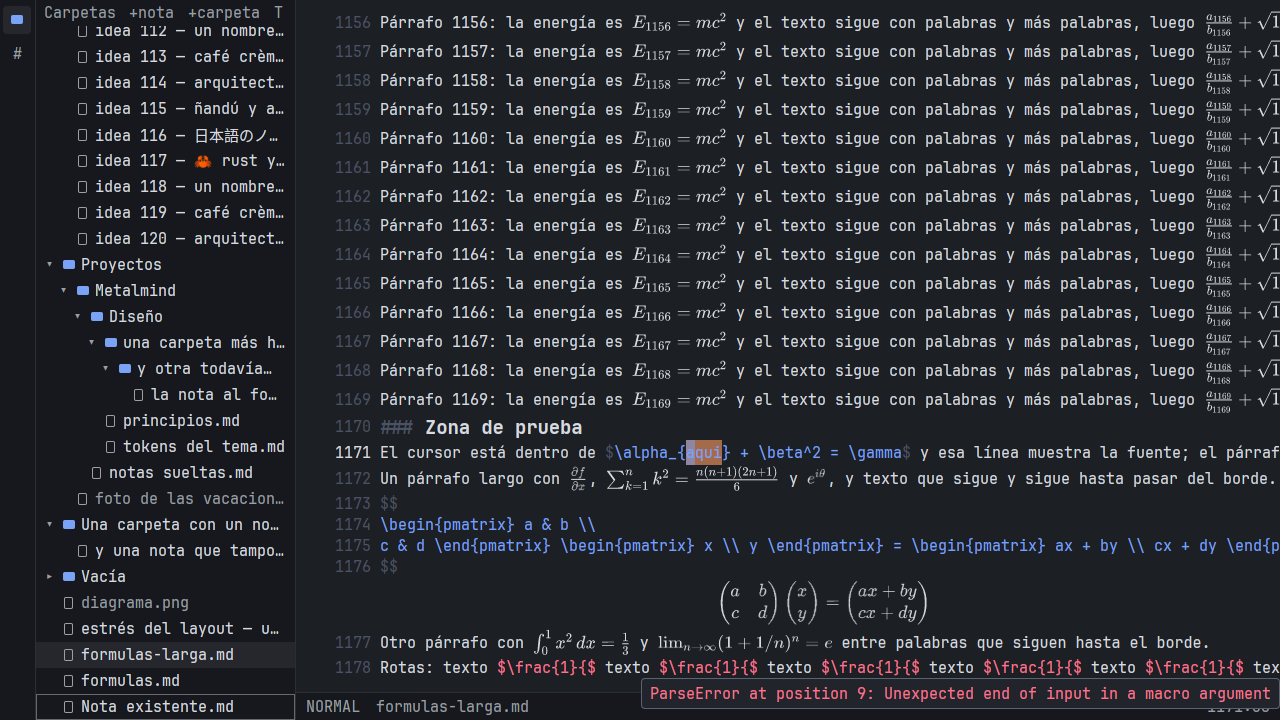
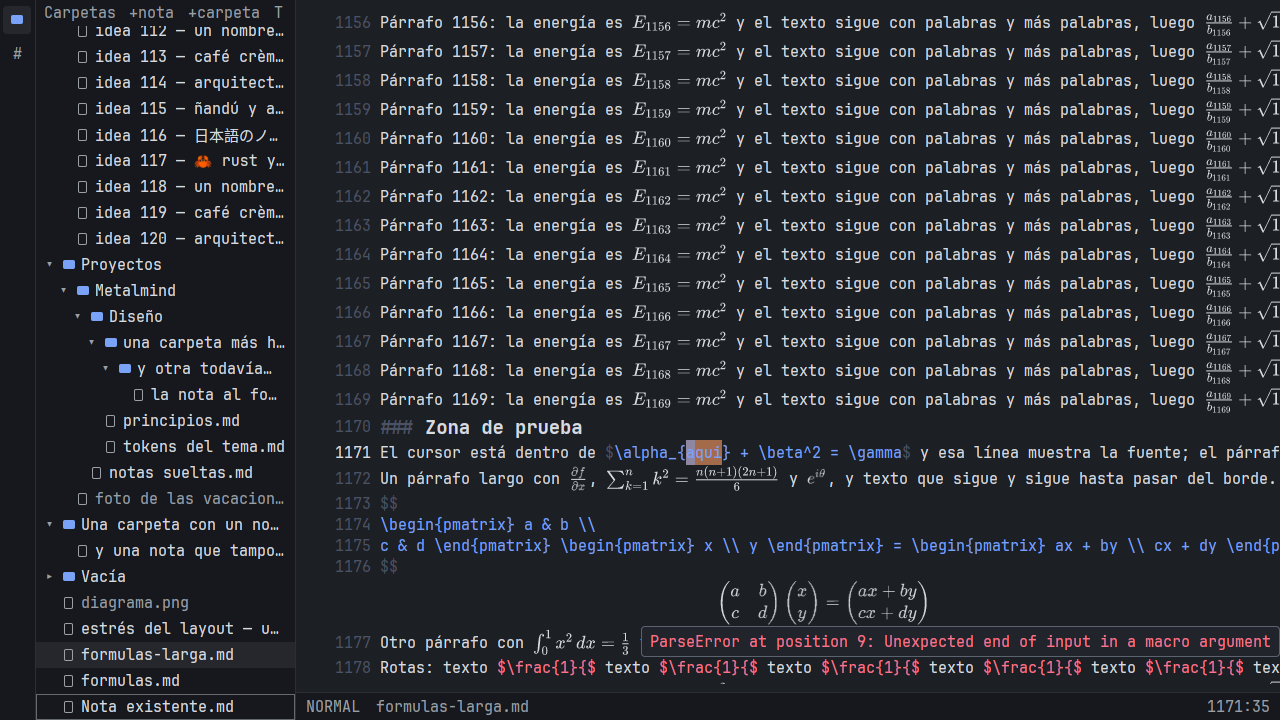
fix(ui): el tooltip de una fórmula rota, dentro del editor, y comprobado en las capturas
Lo que pidió la revisión de las capturas:

- El tooltip del error usa el mismo camino que el de las marks: se mide,
  va debajo de la fórmula o arriba si abajo no cabe en el área del
  editor, y ya no tapa la barra de estado. Se ancla al principio de la
  fórmula y no se mueve con el ratón.
- En scripts/capturas.sh, el ratón va sobre la última fórmula rota que
  se ve entera (la de más a la derecha puede estar cortada por el
  borde), y la captura espera a ver el tooltip y falla si no sale.
- Capturas rehechas sobre este commit: las 68 que ya había dan 0
  píxeles de diferencia.

Changed region(s): [[0.5, 0.9472, 1.0, 1.0], [0.5, 0.8861, 1.0, 0.9167]]

diff --git a/crates/metalmind/tests/capturas.rs b/crates/metalmind/tests/capturas.rs
@@ -207,10 +207,17 @@ fn capturas(#[case] theme: &str, #[case] width: u16, #[case] height: u16) {
                     window.type_keys(&format!(":{}<CR>zb?aqui<CR>", vault::FORMULAS_BROKEN));
                 }
                 Step::HoverBrokenFormula => {
-                    // Sin mover `seen`: si el ratón no muestra nada, la
-                    // captura no espera un frame que no va a llegar.
-                    settle(&window, &frames, seen);
-                    hover_broken_formula(&window, theme, rest);
+                    let still = settle(&window, &frames, seen);
+                    if hover_broken_formula(&window, &still, theme, rest) {
+                        seen = frame_count(&frames);
+                        wait::until("el tooltip de la fórmula rota", TIMEOUT, || {
+                            if window.pixels().2 == still.rgb {
+                                Err("sin tooltip".to_owned())
+                            } else {
+                                Ok(())
+                            }
+                        });
+                    }
                 }
             }
         }
@@ -276,10 +283,15 @@ fn gutter_mark_color(theme: &str) -> [u8; 3] {
     [red, green, blue]
 }
 
-/// El ratón sobre el borde derecho de lo último que se ve pintado en el
-/// color de error del tema: la última fórmula rota visible. Primero lo
-/// aparta, porque sin movimiento la app no se entera.
-fn hover_broken_formula(window: &Window<'_>, theme: &str, rest: (i16, i16)) {
+/// Distancia en píxeles entre dos tramos del color de error que ya no son
+/// la misma fórmula rota: entre una y otra va la palabra `texto`.
+const FORMULA_GAP: usize = 24;
+
+/// Pone el ratón sobre la última fórmula rota que se ve entera en `image`
+/// (la de más a la derecha puede estar cortada por el borde, y una cortada
+/// no dice nada). Devuelve si había alguna: en las capturas de antes, sin
+/// fórmulas compuestas, no hay nada que señalar.
+fn hover_broken_formula(window: &Window<'_>, image: &Image, theme: &str, rest: (i16, i16)) -> bool {
     let error = Themes::builtin()
         .load(&format!("metalmind-{theme}"))
         .unwrap()
@@ -288,23 +300,43 @@ fn hover_broken_formula(window: &Window<'_>, theme: &str, rest: (i16, i16)) {
         .error
         .rgb;
     let [_, red, green, blue] = error.to_be_bytes();
-    let (width, _, rgb) = window.pixels();
-    let mut found: Option<(usize, usize)> = None;
-    for (index, pixel) in rgb.as_chunks::<3>().0.iter().enumerate() {
-        if *pixel == [red, green, blue] {
-            let (x, y) = (index % usize::from(width), index / usize::from(width));
-            if found.is_none_or(|(right, _)| x > right) {
-                found = Some((x, y));
-            }
+    let width = usize::from(image.width);
+    let pixels: Vec<(usize, usize)> = image
+        .rgb
+        .as_chunks::<3>()
+        .0
+        .iter()
+        .enumerate()
+        .filter(|(_, pixel)| **pixel == [red, green, blue])
+        .map(|(index, _)| (index % width, index / width))
+        .collect();
+    let Some(&(_, lowest)) = pixels.iter().max_by_key(|(_, y)| *y) else {
+        return false;
+    };
+    // La línea de las fórmulas rotas, de izquierda a derecha.
+    let mut columns: Vec<usize> = pixels
+        .iter()
+        .filter(|(_, y)| lowest - y < FORMULA_GAP)
+        .map(|(x, _)| *x)
+        .collect();
+    columns.sort_unstable();
+    columns.dedup();
+    let mut formulas: Vec<(usize, usize)> = Vec::new();
+    for x in columns {
+        match formulas.last_mut() {
+            Some((_, right)) if x - *right < FORMULA_GAP => *right = x,
+            _ => formulas.push((x, x)),
         }
     }
-    // Sin fórmulas compuestas (las capturas de antes) no hay nada que señalar.
-    let Some((x, y)) = found else {
-        return;
-    };
+    let &(left, right) = formulas
+        .iter()
+        .rev()
+        .find(|(_, right)| right + FORMULA_GAP < width)
+        .expect("una fórmula rota que se vea entera");
     window.move_pointer(rest.0, rest.1);
     let at = |value: usize| i16::try_from(value).unwrap();
-    window.move_pointer(at(x) - 4, at(y));
+    window.move_pointer(at(usize::midpoint(left, right)), at(lowest) - 4);
+    true
 }
 
 fn out_dir() -> PathBuf {

diff --git a/crates/metalmind-ui/src/editor/formula_tooltip.rs b/crates/metalmind-ui/src/editor/formula_tooltip.rs
@@ -1,48 +1,59 @@
 //! El mensaje de RaTeX sobre una fórmula que no compone, al pasar el ratón,
-//! como en Obsidian: un tooltip como los demás (`crate::tooltip`), con el
-//! texto en el color de error.
+//! como en Obsidian: un tooltip como el de las marks, con el texto en el
+//! color de error, debajo de la fórmula o arriba si abajo no cabe en el
+//! editor.
+
+use std::rc::Rc;
 
 use gpui_kit::{
-    AnyElement, IntoElement as _, ParentElement as _, Pixels, Point, SharedString, Styled as _,
-    anchored, deferred, div, point, relative,
+    AnyTooltip, App, AvailableSpace, Bounds, IntoElement as _, Pixels, SharedString, Window, point,
 };
 
+use super::gutter::{Row, tooltip_origin};
 use super::layout::FormulaError;
 use crate::theme::Theme;
+use crate::tooltip::Tooltip;
 
 #[derive(Clone, Debug, PartialEq)]
 pub struct Hover {
     message: SharedString,
-    /// Debajo de la fórmula, donde no tapa lo que se está leyendo.
-    position: Point<Pixels>,
+    /// La fila de la fórmula, desde su principio: el tooltip no la tapa y
+    /// no se mueve con el ratón.
+    row: Row,
 }
 
 impl Hover {
-    pub fn new(error: &FormulaError, mouse: Point<Pixels>) -> Self {
+    pub fn new(error: &FormulaError) -> Self {
         Self {
             message: error.message.clone(),
-            position: point(mouse.x, error.bounds.bottom()),
+            row: Row {
+                top: error.bounds.top(),
+                bottom: error.bounds.bottom(),
+                text_left: error.bounds.left(),
+            },
         }
     }
 }
 
-pub fn tooltip(hover: &Hover, theme: &Theme) -> AnyElement {
-    deferred(
-        anchored().position(hover.position).snap_to_window().child(
-            div()
-                .font_family(theme.font_family.clone())
-                .text_size(theme.ui_font_size)
-                .line_height(relative(theme.ui_line_height))
-                .px(theme.tooltip_padding_x)
-                .py(theme.tooltip_padding_y)
-                .bg(theme.menu_background)
-                .border(theme.border_width)
-                .border_color(theme.menu_border)
-                .rounded(theme.radius_md)
-                .text_color(theme.error)
-                .child(hover.message.clone()),
-        ),
-    )
-    .with_priority(1)
-    .into_any_element()
+/// Muestra el tooltip de `hover` dentro de `clip`, el área del editor: no
+/// tapa la barra de estado ni sale de la ventana.
+pub fn show(hover: &Hover, clip: Bounds<Pixels>, theme: &Theme, window: &mut Window, cx: &mut App) {
+    let view = Tooltip::error_view(hover.message.clone(), cx);
+    let measured =
+        view.clone()
+            .into_any_element()
+            .layout_as_root(AvailableSpace::min_size(), window, cx);
+    let origin = tooltip_origin(
+        hover.row,
+        measured,
+        clip.bottom(),
+        window.viewport_size().width,
+    );
+    // GPUI corre el tooltip un píxel del ancla, el grosor del borde.
+    let gap = theme.border_width;
+    window.set_tooltip(AnyTooltip {
+        view,
+        mouse_position: origin - point(gap, gap),
+        check_visible_and_update: Rc::new(|_, _, _| true),
+    });
 }

diff --git a/crates/metalmind-ui/src/editor/element.rs b/crates/metalmind-ui/src/editor/element.rs
@@ -13,6 +13,7 @@ use metalmind_vim::{FormulaRows, Mode, Rows};
 
 use super::Editor;
 use super::cursor::{Preedit, cursor_quad, em_width, preedit};
+use super::formula_tooltip;
 use super::gutter::{Gutter, PaintedGutter};
 use super::highlight::{Cells, search_quads, selection_quads};
 use super::layout::{FrameLayout, LaidLine, Viewport};
@@ -30,6 +31,26 @@ pub struct EditorElement {
 }
 
 impl EditorElement {
+    /// El tooltip de la mark o de la fórmula rota bajo el ratón, dentro del
+    /// área del editor.
+    fn show_tooltips(
+        &self,
+        gutter: &Gutter,
+        layout: &FrameLayout,
+        clip: Bounds<Pixels>,
+        window: &mut Window,
+        cx: &mut App,
+    ) {
+        let editor = self.editor.read(cx);
+        let (mark, formula) = (editor.shown_mark_tooltip(), editor.formula_error.clone());
+        if let Some(line) = mark {
+            gutter.mark_tooltip(line, layout, clip, &self.theme, window, cx);
+        }
+        if let Some(hover) = formula {
+            formula_tooltip::show(&hover, clip, &self.theme, window, cx);
+        }
+    }
+
     pub fn new(editor: Entity<Editor>, theme: Theme) -> Self {
         Self { editor, theme }
     }
@@ -207,9 +228,7 @@ impl gpui_kit::Element for EditorElement {
             .with_content_mask(Some(ContentMask { bounds: clip }), |window| {
                 gutter.mark_zones(&layout, &self.editor, window, cx)
             });
-        if let Some(line) = self.editor.read(cx).shown_mark_tooltip() {
-            gutter.mark_tooltip(line, &layout, clip, &self.theme, window, cx);
-        }
+        self.show_tooltips(&gutter, &layout, clip, window, cx);
         Prepainted {
             layout,
             clip,

diff --git a/crates/metalmind-ui/src/tooltip.rs b/crates/metalmind-ui/src/tooltip.rs
@@ -9,12 +9,19 @@ use crate::theme::Theme;
 
 pub struct Tooltip {
     text: SharedString,
+    /// Un error: el texto va en `ui.error`.
+    error: bool,
 }
 
 impl Tooltip {
     /// Para `tooltip` de GPUI, que pide la vista cada vez que se muestra.
     pub fn view(text: SharedString, cx: &mut App) -> AnyView {
-        cx.new(|_| Self { text }).into()
+        cx.new(|_| Self { text, error: false }).into()
+    }
+
+    /// Como [`Tooltip::view`], con el texto en el color de error.
+    pub fn error_view(text: SharedString, cx: &mut App) -> AnyView {
+        cx.new(|_| Self { text, error: true }).into()
     }
 }
 
@@ -32,7 +39,11 @@ impl Render for Tooltip {
             .border(theme.border_width)
             .border_color(theme.menu_border)
             .rounded(theme.radius_md)
-            .text_color(theme.foreground)
+            .text_color(if self.error {
+                theme.error
+            } else {
+                theme.foreground
+            })
             .child(self.text.clone())
     }
 }

diff --git a/crates/metalmind-ui/src/editor/mod.rs b/crates/metalmind-ui/src/editor/mod.rs
@@ -303,10 +303,5 @@ impl Render for Editor {
                     .child(EditorElement::new(cx.entity(), theme.clone())),
             )
             .children(status)
-            .children(
-                self.formula_error
-                    .as_ref()
-                    .map(|hover| formula_tooltip::tooltip(hover, &theme)),
-            )
     }
 }

diff --git a/crates/metalmind-ui/src/editor/mouse.rs b/crates/metalmind-ui/src/editor/mouse.rs
@@ -140,7 +140,7 @@ impl Editor {
             .layout
             .as_ref()
             .and_then(|layout| layout.error_at(position))
-            .map(|error| Hover::new(error, position));
+            .map(Hover::new);
         if hover != self.formula_error {
             self.formula_error = hover;
             cx.notify();

diff --git a/crates/metalmind-ui/src/editor/gutter.rs b/crates/metalmind-ui/src/editor/gutter.rs
@@ -221,7 +221,7 @@ fn shape_mark(
 
 /// La fila de una línea con marks: dónde empieza y termina, y dónde empieza
 /// su texto.
-#[derive(Clone, Copy, Debug)]
+#[derive(Clone, Copy, Debug, PartialEq)]
 pub struct Row {
     pub top: Pixels,
     pub bottom: Pixels,

diff --git a/docs/research/08-matematicas.md b/docs/research/08-matematicas.md
@@ -218,6 +218,7 @@ Sigue el §7; lo que cambió al implementarlo:
 - **Alto**: el motor mide con `Rows::formulas`, un `FormulaRows` que le presta la UI (`metalmind-vim` no sabe de RaTeX). El alto no depende de dónde esté el cursor: con la fuente a la vista, la línea conserva el alto de su fórmula, así entrar y salir de una línea no mueve nada. Una fórmula en línea agranda su línea lo justo para caber con el interlineado del texto, con su línea base en la del texto que GPUI centra; un bloque suma su alto más un interlineado arriba y abajo.
 - **Caché**: el layout se guarda por `(LaTeX, modo)` en em, sin color (lo que mide no depende del color), en dos generaciones de 4 096 para que escribir dentro de un bloque no la haga crecer sin tope. El trabajo del fondo vuelve a componer con el color antes de pintar (µs, frente a los ms de pintar). Las imágenes van por `(LaTeX, modo, tamaño, escala, color)` con LRU de 32 MB que nunca saca una del frame en curso y suelta del atlas de GPUI lo que sale.
 - **Mientras llega la imagen** el lugar queda reservado y vacío, no con la fuente atenuada: la fuente casi nunca mide lo mismo que la fórmula y se encimaría con el texto de al lado.
+- **Tooltip del error**: el mismo de las marks (`Tooltip`, `tooltip_origin`), con el texto en `ui.error`: debajo de la fórmula, o arriba si abajo no cabe en el área del editor, así nunca tapa la barra de estado.
 - **Color**: la fórmula se compone en `ui.foreground`, el color del texto del tema; una que no compone muestra su fuente en `ui.error` y el mensaje de RaTeX en un tooltip. Una que se midió bien y falló al pintarse (en el fondo) se ve igual desde el frame siguiente, sin cambiar el alto de su línea: el fallo es de esa letra, escala y color, y se guarda con la imagen, no con la medida, así el motor nunca ve un alto que cambia tarde. `syntax.math` es el color del LaTeX cuando se ve la fuente. No hizo falta `syntax.math_error`.
 - **Tamaño y márgenes, del tema**: las fórmulas miden `text.math` veces la letra del editor (1.21, como en KaTeX: a la misma letra, junto a la monoespaciada, se veían chicas). La imagen lleva `layout.math_padding` alrededor (donde cae el suavizado de los bordes) y una de bloque, `layout.math_block_margin` arriba y abajo. El error sale de `ui.error` y el LaTeX con el cursor encima, de `syntax.math`; los bloques no llevan fondo. Lo único con números en el código es geometría (centrar a la mitad, el mismo margen a los dos lados) y el tope en bytes de la caché, con su razón en `tests/tokens.rs`.
 - **Tamaño máximo**: antes de pintar, una fórmula de más de 8 192 píxeles de lado (el tope de textura de casi cualquier GPU) se rechaza y se ve como una que no compone, sin reservar su imagen. Una de bloque más ancha que el área empieza en el borde izquierdo, como el texto que pasa del borde.

diff --git a/docs/capturas/formulas/resumen.md b/docs/capturas/formulas/resumen.md
@@ -1,6 +1,6 @@
 # Capturas de las fórmulas
 
-`scripts/capturas.sh` en la base (`main` con las pantallas nuevas) y en la rama, con `--antes`. Las 68 capturas que ya había no cambian; las de fórmulas, sí: antes se veía el LaTeX, ahora la fórmula compuesta.
+`scripts/capturas.sh` en la base (`main` con las pantallas nuevas) y en la rama, con `--antes`. Las 68 capturas que ya había no cambian; las de fórmulas, sí: antes se veía el LaTeX, ahora la fórmula compuesta. En `formulas-larga`, el ratón está sobre la última fórmula rota que se ve entera y la captura falla si su tooltip no aparece.
 
 | Captura | Píxeles distintos |
 |---|---|
@@ -23,7 +23,7 @@
 | marks-borde-derecho-claro-1280 | 0 |
 | formulas-claro-1280 | 89774 (`diff-formulas-claro-1280.png`) |
 | formulas-bloque-claro-1280 | 92786 (`diff-formulas-bloque-claro-1280.png`) |
-| formulas-larga-claro-1280 | 214358 (`diff-formulas-larga-claro-1280.png`) |
+| formulas-larga-claro-1280 | 202844 (`diff-formulas-larga-claro-1280.png`) |
 | editor-claro-1920 | 0 |
 | editor-final-claro-1920 | 0 |
 | arbol-claro-1920 | 0 |
@@ -43,7 +43,7 @@
 | marks-borde-derecho-claro-1920 | 0 |
 | formulas-claro-1920 | 143745 (`diff-formulas-claro-1920.png`) |
 | formulas-bloque-claro-1920 | 145575 (`diff-formulas-bloque-claro-1920.png`) |
-| formulas-larga-claro-1920 | 528962 (`diff-formulas-larga-claro-1920.png`) |
+| formulas-larga-claro-1920 | 528866 (`diff-formulas-larga-claro-1920.png`) |
 | editor-oscuro-1280 | 0 |
 | editor-final-oscuro-1280 | 0 |
 | arbol-oscuro-1280 | 0 |
@@ -63,7 +63,7 @@
 | marks-borde-derecho-oscuro-1280 | 0 |
 | formulas-oscuro-1280 | 89510 (`diff-formulas-oscuro-1280.png`) |
 | formulas-bloque-oscuro-1280 | 92646 (`diff-formulas-bloque-oscuro-1280.png`) |
-| formulas-larga-oscuro-1280 | 219925 (`diff-formulas-larga-oscuro-1280.png`) |
+| formulas-larga-oscuro-1280 | 215916 (`diff-formulas-larga-oscuro-1280.png`) |
 | editor-oscuro-1920 | 0 |
 | editor-final-oscuro-1920 | 0 |
 | arbol-oscuro-1920 | 0 |
@@ -83,4 +83,4 @@
 | marks-borde-derecho-oscuro-1920 | 0 |
 | formulas-oscuro-1920 | 143143 (`diff-formulas-oscuro-1920.png`) |
 | formulas-bloque-oscuro-1920 | 145086 (`diff-formulas-bloque-oscuro-1920.png`) |
-| formulas-larga-oscuro-1920 | 538020 (`diff-formulas-larga-oscuro-1920.png`) |
+| formulas-larga-oscuro-1920 | 541000 (`diff-formulas-larga-oscuro-1920.png`) |
